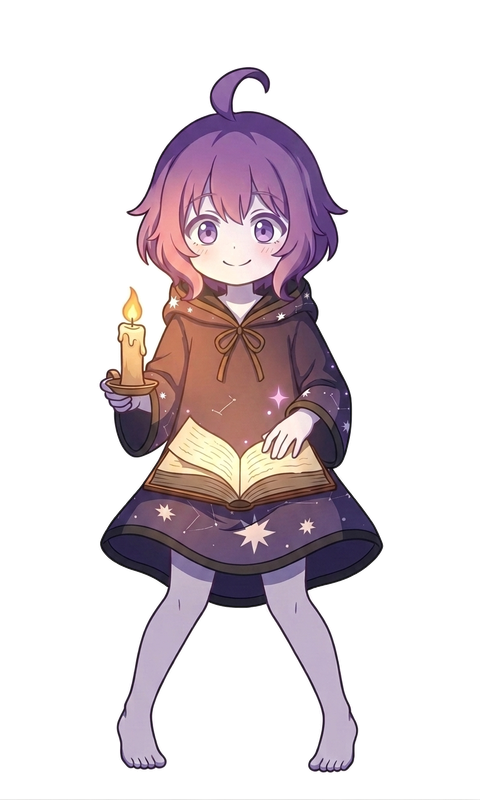
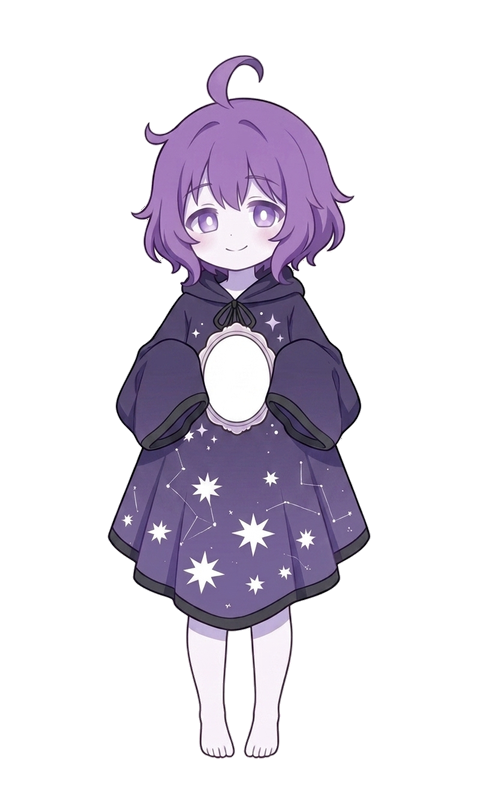
redo the empty pose and add a lost pose for aeth, use lost on the 404 page

diff --git a/crates/frontend/src/app.rs b/crates/frontend/src/app.rs
@@ -22,7 +22,7 @@ pub fn NotFoundPage() -> impl IntoView {
     view! {
         <div style="display: flex; height: 100dvh; width: 100vw; flex-direction: column; align-items: center; justify-content: center; background: var(--color-bg); color: var(--color-text-muted); font-family: var(--font-body); text-align: center; padding: 2rem;">
             <div style="width: 170px;">
-                <crate::components::mascot::Aeth state=Signal::derive(|| crate::components::mascot::MascotState::Empty) class="mascot-empty" />
+                <crate::components::mascot::Aeth state=Signal::derive(|| crate::components::mascot::MascotState::Lost) class="mascot-empty" />
             </div>
             <p style="font-family: monospace; font-size: 0.75rem; letter-spacing: 0.15em; text-transform: uppercase; color: var(--color-text-muted); margin: 0.5rem 0 0;">"Error 404"</p>
             <h1 style="font-family: var(--font-heading); font-weight: 300; font-size: 1.8rem; margin: 0.4rem 0 0; letter-spacing: -0.01em; color: var(--color-text-heading);">"Even Aeth couldn't find this one."</h1>

diff --git a/crates/frontend/src/components/mascot.rs b/crates/frontend/src/components/mascot.rs
@@ -7,6 +7,7 @@ pub enum MascotState {
     Thinking,
     Error,
     Empty,
+    Lost,
     Peek,
     PeekClicked,
 }
@@ -18,6 +19,7 @@ impl MascotState {
             MascotState::Thinking => "thinking",
             MascotState::Error => "error",
             MascotState::Empty => "empty",
+            MascotState::Lost => "lost",
             MascotState::Peek => "peek",
             MascotState::PeekClicked => "peek-clicked",
         }
